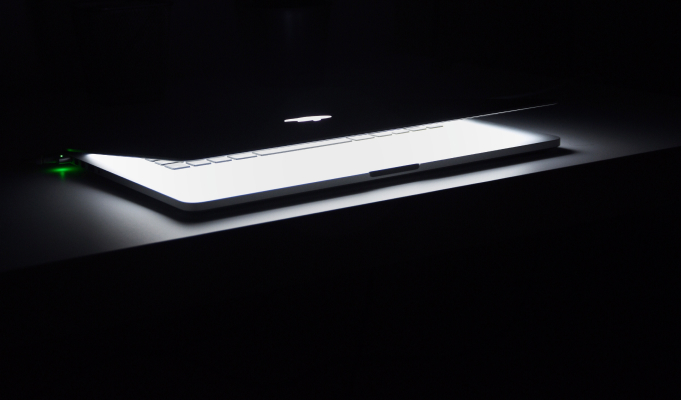
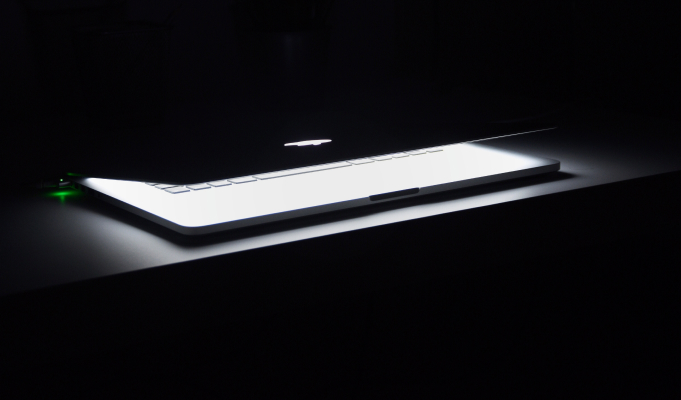
update css & image

Changed region(s): [[0.0617, 0.27, 0.9559, 0.69]]

diff --git a/app/styles/style.scss b/app/styles/style.scss
@@ -59,16 +59,28 @@ ul {
 	position: absolute;
 	width: 100%;
 	height: 100vh;
+	background: url(/top-v.webp);
+	background-repeat: no-repeat;
+	background-size: cover;
+	z-index: 99997;
 	display: flex;
 	align-items: center;
 	justify-content: center;
-	background: var(--blue);
-	z-index: 99999;
+	&::before {
+		position: absolute;
+		content: "";
+		display: block;
+		width: 100%;
+		height: 100%;
+		background: #0387a2e4;
+		z-index: 99998;
+	}
 	.opening-logo {
 		font-family: var(--font-tulpen_One);
 		color: var(--white);
 		font-size: 8rem;
 		opacity: 0;
+		z-index: 99999;
 		@media (max-width: 639px) {
 			font-size: 5rem;
 		}
